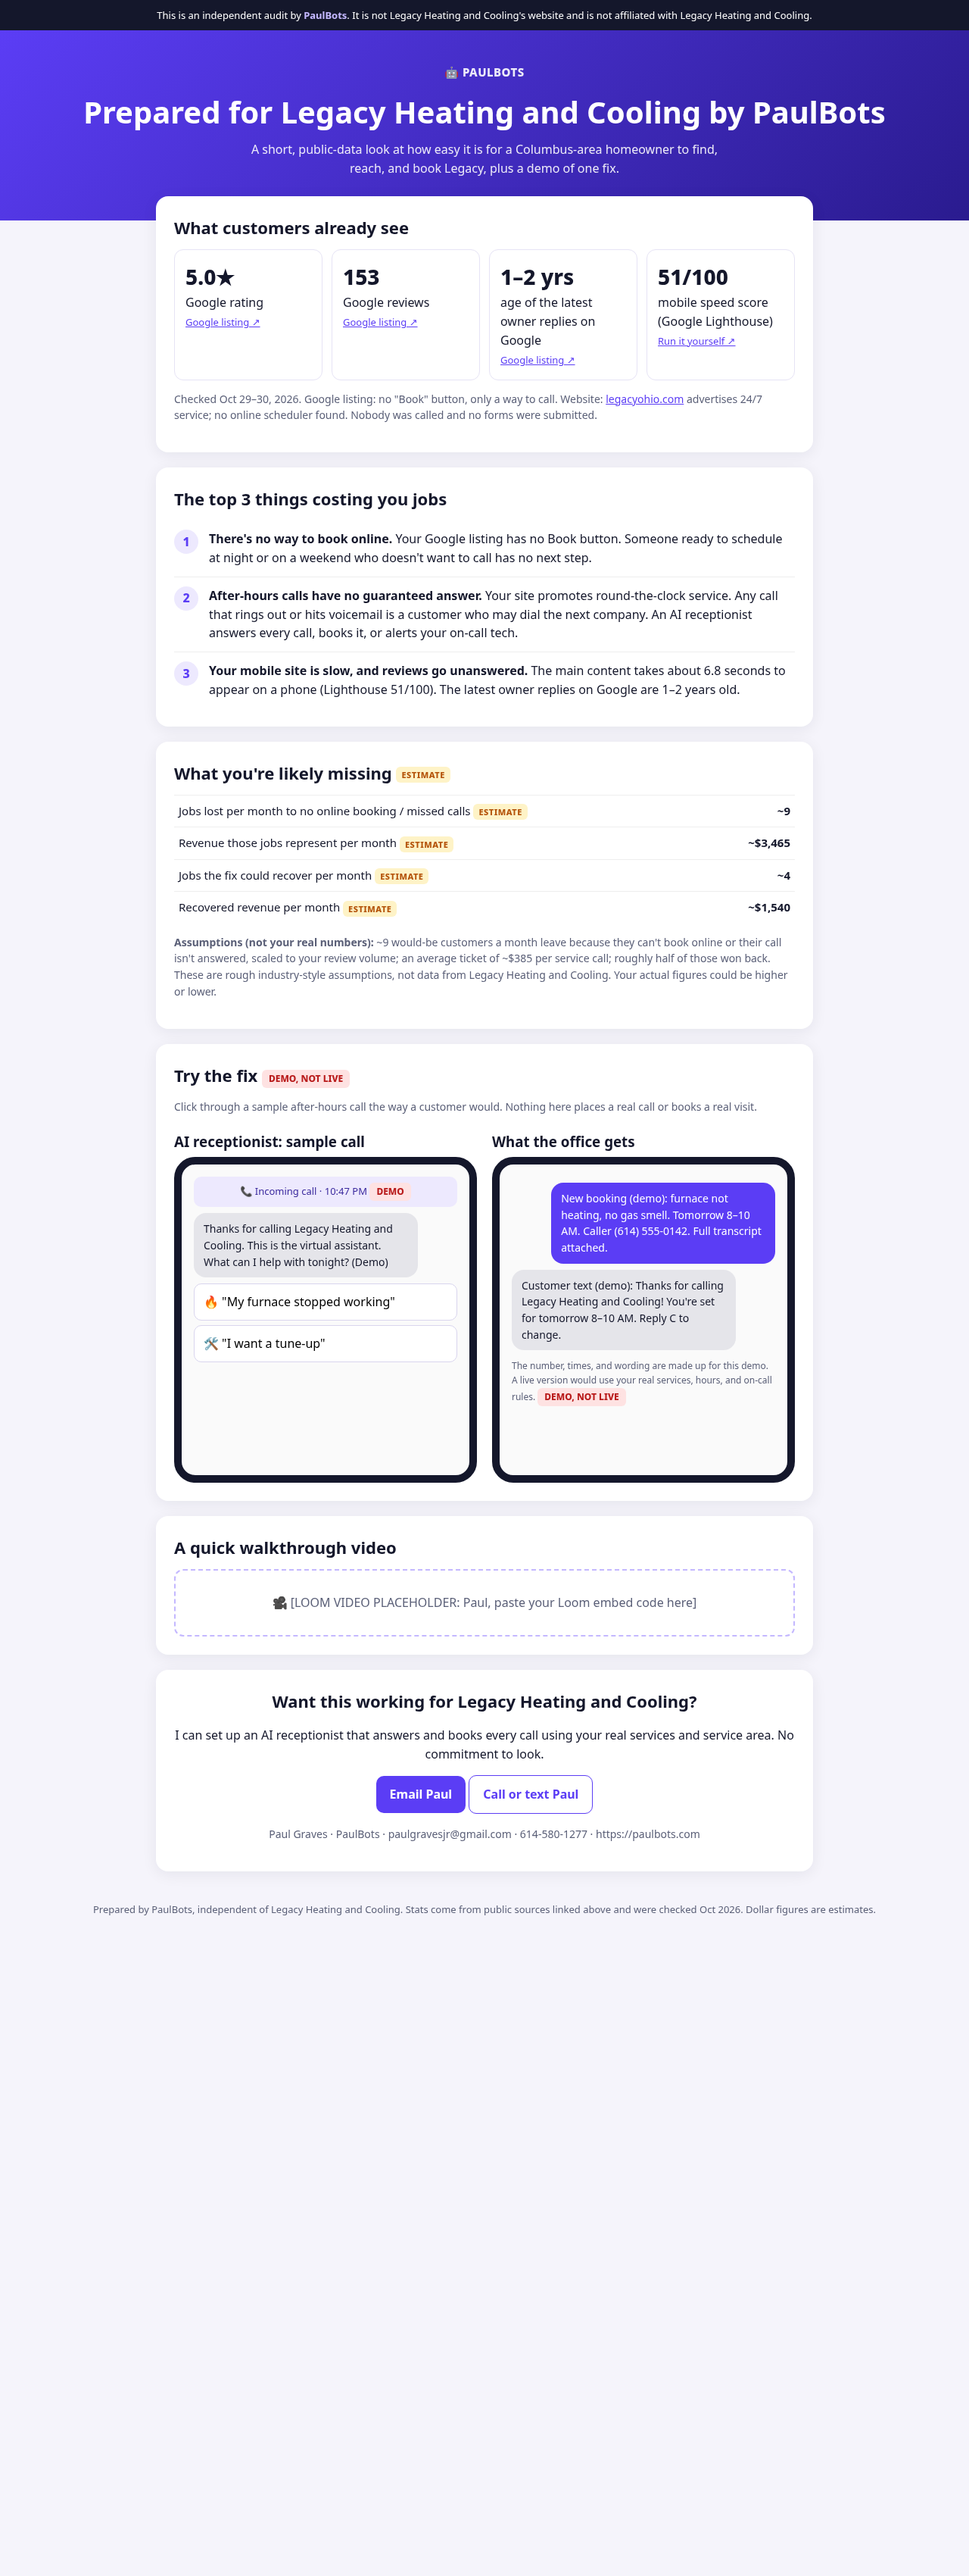
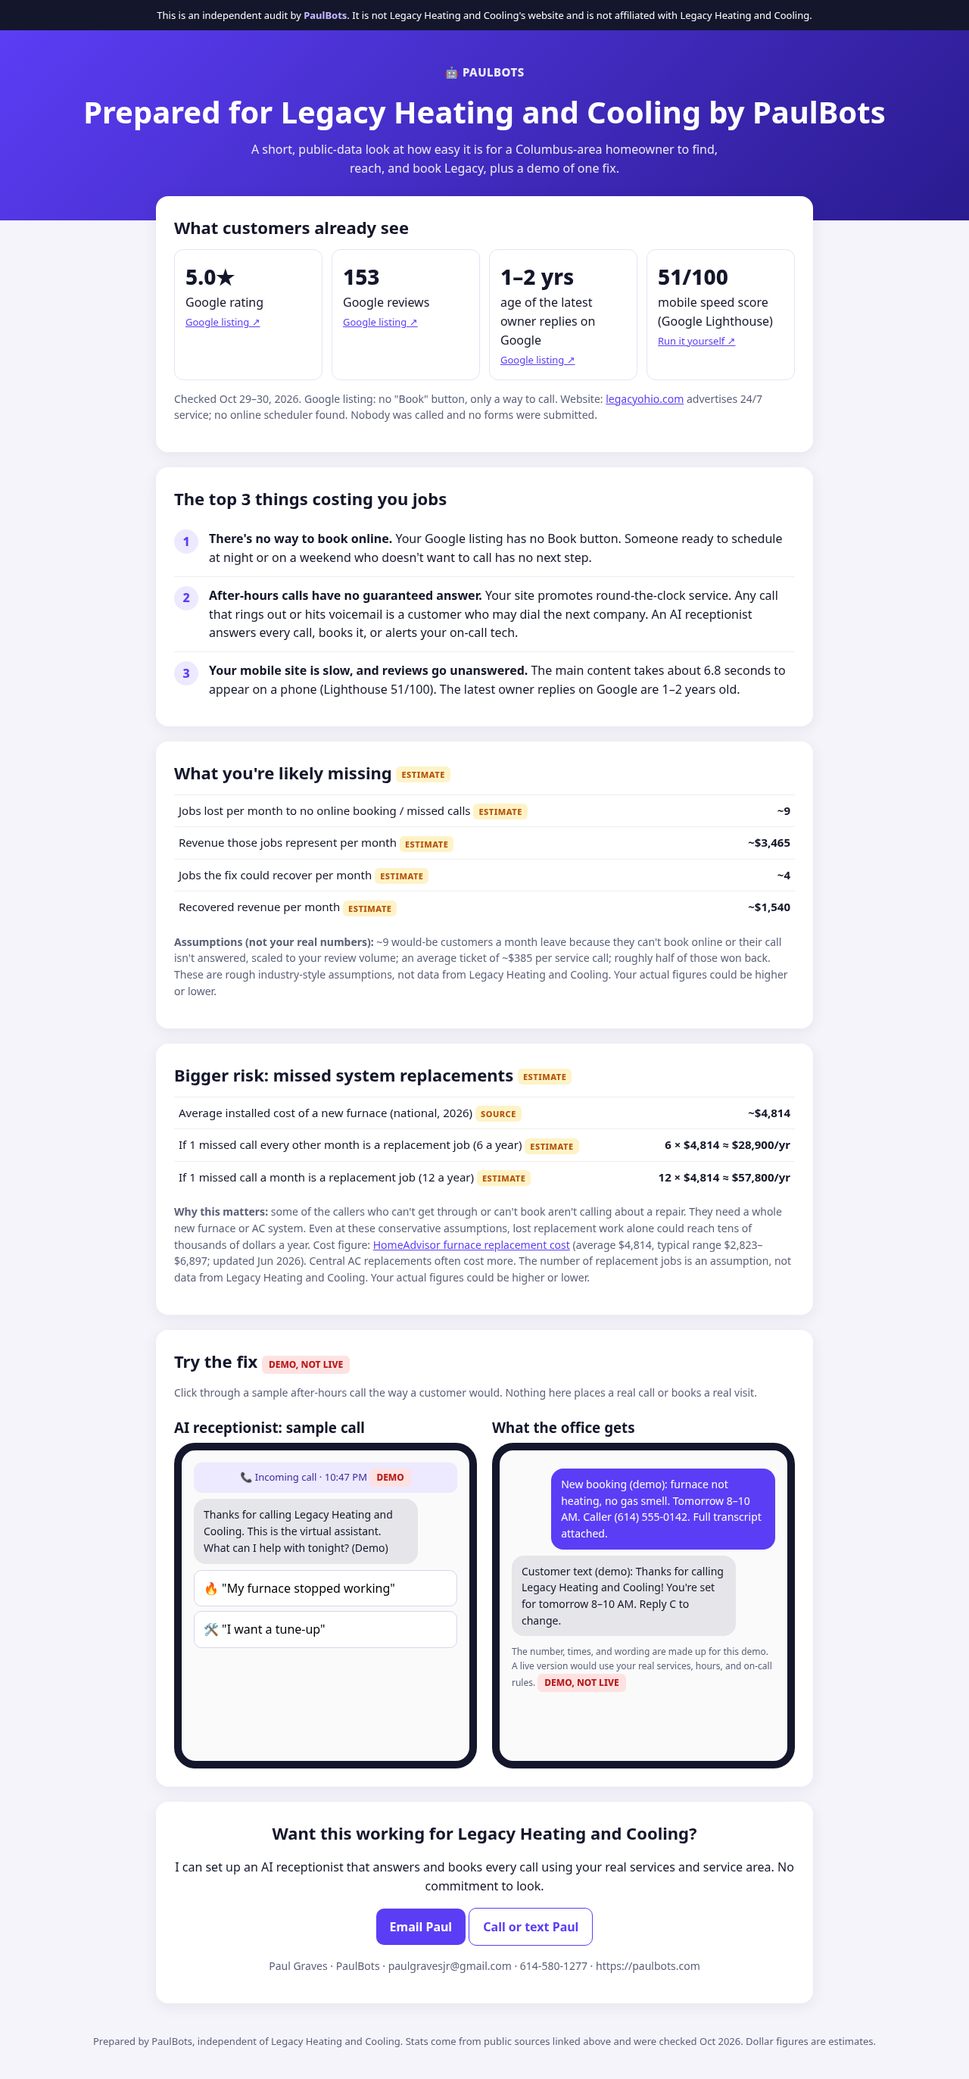
Republish six audits with replacement estimate

Changed region(s): [[0.0, 0.0, 1.0, 0.6193], [0.1562, 0.6503, 0.8438, 0.9599], [0.7812, 0.3097, 0.8125, 0.3716]]

diff --git a/audit/patriot-air/index.html b/audit/patriot-air/index.html
@@ -45,6 +45,12 @@ footer{text-align:center;color:var(--mut);font-size:13px;padding:0 16px 40px}a{c
 <tr><td>Jobs the fix could recover per month <span class="est">ESTIMATE</span></td><td>~14</td></tr>
 <tr><td>Recovered revenue per month <span class="est">ESTIMATE</span></td><td>~$5,390</td></tr></table>
 <p class="mut"><b>Assumptions (not your real numbers):</b> ~27 would-be customers a month leave because they can't book online or their call isn't answered, scaled to your review volume; an average ticket of ~$385 per service call; roughly half of those won back. These are rough industry-style assumptions, not data from Patriot Air Comfort Systems. Your actual figures could be higher or lower.</p></section>
+<section class="card"><h2>Bigger risk: missed system replacements <span class="est">ESTIMATE</span></h2><table>
+<tr><td>Average installed cost of a new furnace (national, 2026) <span class="est">SOURCE</span></td><td>~$4,814</td></tr>
+<tr><td>If 1 missed call every other month is a replacement job (6 a year) <span class="est">ESTIMATE</span></td><td>6 × $4,814 ≈ $28,900/yr</td></tr>
+<tr><td>If 1 missed call a month is a replacement job (12 a year) <span class="est">ESTIMATE</span></td><td>12 × $4,814 ≈ $57,800/yr</td></tr></table>
+<p class="mut"><b>Why this matters:</b> some of the callers who can't get through or can't book aren't calling about a repair. They need a whole new furnace or AC system. Even at these conservative assumptions, lost replacement work alone could reach tens of thousands of dollars a year. Cost figure: <a href="https://www.homeadvisor.com/cost/heating-and-cooling/install-a-furnace/" target="_blank" rel="noopener">HomeAdvisor furnace replacement cost</a> (average $4,814, typical range $2,823–$6,897; updated Jun 2026). Central AC replacements often cost more. The number of replacement jobs is an assumption, not data from Patriot Air Comfort Systems. Your actual figures could be higher or lower.</p></section>
+
 <section class="card"><h2>Try the fix <span class="demo">DEMO, NOT LIVE</span></h2><p class="mut">Click through a sample after-hours call the way a customer would. Nothing here places a real call or books a real visit.</p>
 <div class="grid2"><div><h3 style="margin:6px 0">AI receptionist: sample call</h3><div class="phone chat" id="chat">
 <div class="call" style="background:#ede9fe;color:#3b2a9e">📞 Incoming call · 10:47 PM <span class="demo">DEMO</span></div>

diff --git a/audit/legacy-heating-cooling/index.html b/audit/legacy-heating-cooling/index.html
@@ -45,6 +45,12 @@ footer{text-align:center;color:var(--mut);font-size:13px;padding:0 16px 40px}a{c
 <tr><td>Jobs the fix could recover per month <span class="est">ESTIMATE</span></td><td>~4</td></tr>
 <tr><td>Recovered revenue per month <span class="est">ESTIMATE</span></td><td>~$1,540</td></tr></table>
 <p class="mut"><b>Assumptions (not your real numbers):</b> ~9 would-be customers a month leave because they can't book online or their call isn't answered, scaled to your review volume; an average ticket of ~$385 per service call; roughly half of those won back. These are rough industry-style assumptions, not data from Legacy Heating and Cooling. Your actual figures could be higher or lower.</p></section>
+<section class="card"><h2>Bigger risk: missed system replacements <span class="est">ESTIMATE</span></h2><table>
+<tr><td>Average installed cost of a new furnace (national, 2026) <span class="est">SOURCE</span></td><td>~$4,814</td></tr>
+<tr><td>If 1 missed call every other month is a replacement job (6 a year) <span class="est">ESTIMATE</span></td><td>6 × $4,814 ≈ $28,900/yr</td></tr>
+<tr><td>If 1 missed call a month is a replacement job (12 a year) <span class="est">ESTIMATE</span></td><td>12 × $4,814 ≈ $57,800/yr</td></tr></table>
+<p class="mut"><b>Why this matters:</b> some of the callers who can't get through or can't book aren't calling about a repair. They need a whole new furnace or AC system. Even at these conservative assumptions, lost replacement work alone could reach tens of thousands of dollars a year. Cost figure: <a href="https://www.homeadvisor.com/cost/heating-and-cooling/install-a-furnace/" target="_blank" rel="noopener">HomeAdvisor furnace replacement cost</a> (average $4,814, typical range $2,823–$6,897; updated Jun 2026). Central AC replacements often cost more. The number of replacement jobs is an assumption, not data from Legacy Heating and Cooling. Your actual figures could be higher or lower.</p></section>
+
 <section class="card"><h2>Try the fix <span class="demo">DEMO, NOT LIVE</span></h2><p class="mut">Click through a sample after-hours call the way a customer would. Nothing here places a real call or books a real visit.</p>
 <div class="grid2"><div><h3 style="margin:6px 0">AI receptionist: sample call</h3><div class="phone chat" id="chat">
 <div class="call" style="background:#ede9fe;color:#3b2a9e">📞 Incoming call · 10:47 PM <span class="demo">DEMO</span></div>

diff --git a/audit/sayre-heating/index.html b/audit/sayre-heating/index.html
@@ -45,6 +45,12 @@ footer{text-align:center;color:var(--mut);font-size:13px;padding:0 16px 40px}a{c
 <tr><td>Jobs the fix could recover per month <span class="est">ESTIMATE</span></td><td>~6</td></tr>
 <tr><td>Recovered revenue per month <span class="est">ESTIMATE</span></td><td>~$2,310</td></tr></table>
 <p class="mut"><b>Assumptions (not your real numbers):</b> ~12 would-be customers a month leave because they can't book online or their call isn't answered, scaled to your review volume; an average ticket of ~$385 per service call; roughly half of those won back. These are rough industry-style assumptions, not data from Sayre Heating & Cooling. Your actual figures could be higher or lower.</p></section>
+<section class="card"><h2>Bigger risk: missed system replacements <span class="est">ESTIMATE</span></h2><table>
+<tr><td>Average installed cost of a new furnace (national, 2026) <span class="est">SOURCE</span></td><td>~$4,814</td></tr>
+<tr><td>If 1 missed call every other month is a replacement job (6 a year) <span class="est">ESTIMATE</span></td><td>6 × $4,814 ≈ $28,900/yr</td></tr>
+<tr><td>If 1 missed call a month is a replacement job (12 a year) <span class="est">ESTIMATE</span></td><td>12 × $4,814 ≈ $57,800/yr</td></tr></table>
+<p class="mut"><b>Why this matters:</b> some of the callers who can't get through or can't book aren't calling about a repair. They need a whole new furnace or AC system. Even at these conservative assumptions, lost replacement work alone could reach tens of thousands of dollars a year. Cost figure: <a href="https://www.homeadvisor.com/cost/heating-and-cooling/install-a-furnace/" target="_blank" rel="noopener">HomeAdvisor furnace replacement cost</a> (average $4,814, typical range $2,823–$6,897; updated Jun 2026). Central AC replacements often cost more. The number of replacement jobs is an assumption, not data from Sayre Heating & Cooling. Your actual figures could be higher or lower.</p></section>
+
 <section class="card"><h2>Try the fix <span class="demo">DEMO, NOT LIVE</span></h2><p class="mut">Click through a sample after-hours call the way a customer would. Nothing here places a real call or books a real visit.</p>
 <div class="grid2"><div><h3 style="margin:6px 0">AI receptionist: sample call</h3><div class="phone chat" id="chat">
 <div class="call" style="background:#ede9fe;color:#3b2a9e">📞 Incoming call · 10:47 PM <span class="demo">DEMO</span></div>

diff --git a/audit/eagle-heating/index.html b/audit/eagle-heating/index.html
@@ -45,6 +45,12 @@ footer{text-align:center;color:var(--mut);font-size:13px;padding:0 16px 40px}a{c
 <tr><td>Jobs the fix could recover per month <span class="est">ESTIMATE</span></td><td>~2</td></tr>
 <tr><td>Recovered revenue per month <span class="est">ESTIMATE</span></td><td>~$770</td></tr></table>
 <p class="mut"><b>Assumptions (not your real numbers):</b> ~4 would-be customers a month leave because they can't book online or their call isn't answered, scaled to your review volume; an average ticket of ~$385 per service call; roughly half of those won back. These are rough industry-style assumptions, not data from Eagle Heating & Cooling. Your actual figures could be higher or lower.</p></section>
+<section class="card"><h2>Bigger risk: missed system replacements <span class="est">ESTIMATE</span></h2><table>
+<tr><td>Average installed cost of a new furnace (national, 2026) <span class="est">SOURCE</span></td><td>~$4,814</td></tr>
+<tr><td>If 1 missed call every other month is a replacement job (6 a year) <span class="est">ESTIMATE</span></td><td>6 × $4,814 ≈ $28,900/yr</td></tr>
+<tr><td>If 1 missed call a month is a replacement job (12 a year) <span class="est">ESTIMATE</span></td><td>12 × $4,814 ≈ $57,800/yr</td></tr></table>
+<p class="mut"><b>Why this matters:</b> some of the callers who can't get through or can't book aren't calling about a repair. They need a whole new furnace or AC system. Even at these conservative assumptions, lost replacement work alone could reach tens of thousands of dollars a year. Cost figure: <a href="https://www.homeadvisor.com/cost/heating-and-cooling/install-a-furnace/" target="_blank" rel="noopener">HomeAdvisor furnace replacement cost</a> (average $4,814, typical range $2,823–$6,897; updated Jun 2026). Central AC replacements often cost more. The number of replacement jobs is an assumption, not data from Eagle Heating & Cooling. Your actual figures could be higher or lower.</p></section>
+
 <section class="card"><h2>Try the fix <span class="demo">DEMO, NOT LIVE</span></h2><p class="mut">Click through a sample after-hours call the way a customer would. Nothing here places a real call or books a real visit.</p>
 <div class="grid2"><div><h3 style="margin:6px 0">AI receptionist: sample call</h3><div class="phone chat" id="chat">
 <div class="call" style="background:#ede9fe;color:#3b2a9e">📞 Incoming call · 10:47 PM <span class="demo">DEMO</span></div>

diff --git a/audit/westin-air/index.html b/audit/westin-air/index.html
@@ -45,6 +45,12 @@ footer{text-align:center;color:var(--mut);font-size:13px;padding:0 16px 40px}a{c
 <tr><td>Jobs the fix could recover per month <span class="est">ESTIMATE</span></td><td>~4</td></tr>
 <tr><td>Recovered revenue per month <span class="est">ESTIMATE</span></td><td>~$1,540</td></tr></table>
 <p class="mut"><b>Assumptions (not your real numbers):</b> ~9 would-be customers a month leave because they can't book online or their call isn't answered, scaled to your review volume; an average ticket of ~$385 per service call; roughly half of those won back. These are rough industry-style assumptions, not data from Westin Air Heating and Cooling. Your actual figures could be higher or lower.</p></section>
+<section class="card"><h2>Bigger risk: missed system replacements <span class="est">ESTIMATE</span></h2><table>
+<tr><td>Average installed cost of a new furnace (national, 2026) <span class="est">SOURCE</span></td><td>~$4,814</td></tr>
+<tr><td>If 1 missed call every other month is a replacement job (6 a year) <span class="est">ESTIMATE</span></td><td>6 × $4,814 ≈ $28,900/yr</td></tr>
+<tr><td>If 1 missed call a month is a replacement job (12 a year) <span class="est">ESTIMATE</span></td><td>12 × $4,814 ≈ $57,800/yr</td></tr></table>
+<p class="mut"><b>Why this matters:</b> some of the callers who can't get through or can't book aren't calling about a repair. They need a whole new furnace or AC system. Even at these conservative assumptions, lost replacement work alone could reach tens of thousands of dollars a year. Cost figure: <a href="https://www.homeadvisor.com/cost/heating-and-cooling/install-a-furnace/" target="_blank" rel="noopener">HomeAdvisor furnace replacement cost</a> (average $4,814, typical range $2,823–$6,897; updated Jun 2026). Central AC replacements often cost more. The number of replacement jobs is an assumption, not data from Westin Air Heating and Cooling. Your actual figures could be higher or lower.</p></section>
+
 <section class="card"><h2>Try the fix <span class="demo">DEMO, NOT LIVE</span></h2><p class="mut">Click through it like a customer would. Nothing here books a real appointment or sends a real text.</p>
 <div class="grid2">
 <div><h3 style="margin:6px 0">1. Book-online page</h3><div class="phone" id="bk">

diff --git a/audit/classic-air/index.html b/audit/classic-air/index.html
@@ -56,6 +56,12 @@ footer{text-align:center;color:var(--mut);font-size:13px;padding:0 16px 40px}a{c
 <tr><td>Recovered revenue per month <span class="est">ESTIMATE</span></td><td>~$3,465</td></tr>
 </table>
 <p class="mut"><b>Assumptions (not your real numbers):</b> ~18 would-be customers a month leave because they can't book online or their call isn't answered; an average ticket of ~$385 per service call; about half of those can be won back with online booking and an instant missed-call text. These are rough industry-style assumptions, not data from Classic Air. Your actual figures could be higher or lower.</p></section>
+<section class="card"><h2>Bigger risk: missed system replacements <span class="est">ESTIMATE</span></h2><table>
+<tr><td>Average installed cost of a new furnace (national, 2026) <span class="est">SOURCE</span></td><td>~$4,814</td></tr>
+<tr><td>If 1 missed call every other month is a replacement job (6 a year) <span class="est">ESTIMATE</span></td><td>6 × $4,814 ≈ $28,900/yr</td></tr>
+<tr><td>If 1 missed call a month is a replacement job (12 a year) <span class="est">ESTIMATE</span></td><td>12 × $4,814 ≈ $57,800/yr</td></tr></table>
+<p class="mut"><b>Why this matters:</b> some of the callers who can't get through or can't book aren't calling about a repair. They need a whole new furnace or AC system. Even at these conservative assumptions, lost replacement work alone could reach tens of thousands of dollars a year. Cost figure: <a href="https://www.homeadvisor.com/cost/heating-and-cooling/install-a-furnace/" target="_blank" rel="noopener">HomeAdvisor furnace replacement cost</a> (average $4,814, typical range $2,823–$6,897; updated Jun 2026). Central AC replacements often cost more. The number of replacement jobs is an assumption, not data from Classic Air. Your actual figures could be higher or lower.</p></section>
+
 
 <section class="card"><h2>Try the fix <span class="demo">DEMO, NOT LIVE</span></h2>
 <p class="mut">Click through it like a customer would. Nothing here books a real appointment or sends a real text.</p>
